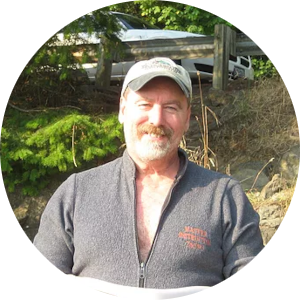
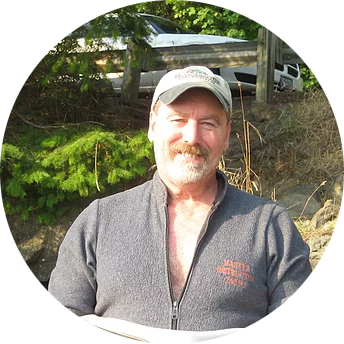
Home page cards

diff --git a/src/client/pages/Home.js b/src/client/pages/Home.js
@@ -71,6 +71,7 @@ export const Home = () => (
                         {database.courses.map(course => (
                             <div className="CoursesGapPositive flex1">
                                 <Card
+                                    style="imgFirst"
                                     title={course.name}
                                     description={course.description}
                                     img={course.img}
@@ -99,7 +100,22 @@ export const Home = () => (
 
         <div className="Gutters">
             <section>
-                <h2 className="fs4 pb1 taCenter fwBold">The team</h2>
+                <h2 className="fs4 pb3 taCenter fwBold">The team</h2>
+                <div className="pb3">
+                    <div className="StaffGapNegative StaffDirection dFlex">
+                        {database.staff.map(person => (
+                            <div className="StaffGapPositive flex1">
+                                <Card
+                                    title={<Fragment>{person.first} <span className="fwBold">{person.last}</span></Fragment>}
+                                    subtitle={person.title}
+                                    description={person.description[0]}
+                                    img={person.img}
+                                    imgAlt={`${person.first} ${person.last}`}
+                                />
+                            </div>
+                        ))}
+                    </div>
+                </div>
                 <div className="taRight">
                     <Button to="/staff">Our Explorers</Button>
                 </div>

diff --git a/src/client/components/Card.js b/src/client/components/Card.js
@@ -1,13 +1,29 @@
 import React from "react";
 
-export const Card = (props) => (
-    <div className="taCenter">
-        <div className="pb1">
-            <div className="ZoomOnHoverParent">
-                <img className="ZoomOnHoverChild mwFull" src={props.img} alt={props.title}/>
+export const Card = (props) => {
+    if(props.style === "imgFirst"){
+        return (
+            <div className="taCenter">
+                <div className="pb1">
+                    <div className="ZoomOnHoverParent">
+                        <img className="ZoomOnHoverChild mwFull" src={props.img} alt={props.imgAlt || props.title}/>
+                    </div>
+                </div>
+                <div className="fs3 pb1 fwBold">{props.title}</div>
+                <div className="fs2 w2 dInlineBlock">{props.description}</div>
             </div>
-        </div>
-        <div className="fs3 pb1 fwBold">{props.title}</div>
-        <div className="fs2 w2 dInlineBlock">{props.description}</div>
-    </div>
-);
+        );
+    }
+    else{
+        return (
+            <div className="taCenter bg1 c2 p2 br1 bs1">
+                <div className="fs3 pb1">{props.title}</div>
+                <div className="fs2 pb1 fsItalic">{props.subtitle}</div>
+                <div className="pb1">
+                    <img className="wFull" src={props.img} alt={props.imgAlt || props.title}/>
+                </div>
+                <div className="fs1 Clamp Clamp5 taJustify">{props.description}</div>
+            </div>
+        );
+    }
+};

diff --git a/src/client/style.css b/src/client/style.css
@@ -31,6 +31,17 @@ h1, h2, h3, p, a{
 .CoursesGapNegative{margin: 0}
 .CoursesDirection{flex-direction: row}
 
+.StaffGapPositive{margin: 50px}
+.StaffGapNegative{margin: -50px}
+.StaffDirection{flex-direction: row}
+
+.Clamp{
+    display: -webkit-box;
+    -webkit-box-orient: vertical;
+    overflow: hidden;
+}
+.Clamp5{-webkit-line-clamp: 5}
+
 .ZoomOnHoverChild{
     transition: transform .15s;
     display: block;
@@ -118,7 +129,7 @@ h1, h2, h3, p, a{
 
 .bgTransparent{background-color: transparent}
 
-.bs1{box-shadow: 0 0 1.5rem 1.5rem black}
+.bs1{box-shadow: 0 0 1.5rem 1rem black}
 
 .b1{border: 2px solid #de3c4b}
 
@@ -136,12 +147,15 @@ h1, h2, h3, p, a{
 
 .w1{width: 75%}
 .w2{width: 90%}
+.wFull{width: 100%}
 .mwFull{max-width: 100%}
 
 .hFull{height: 100%}
 .mhFull{min-height: 100%}
 
 .fwBold{font-weight: bold}
+
+.fsItalic{font-style: italic}
 
 .taJustify{text-align: justify}
 .taCenter{text-align: center}
